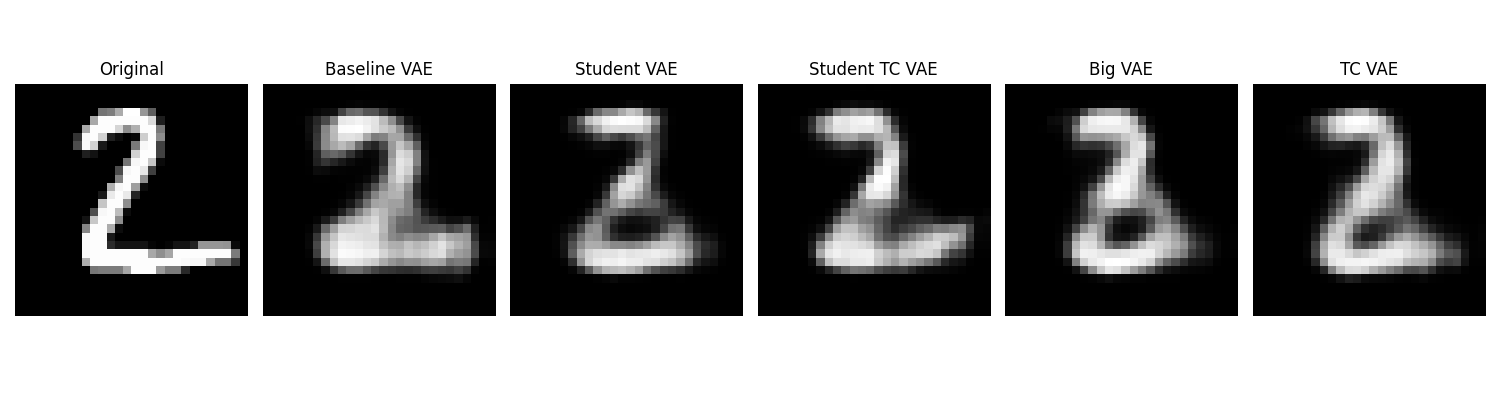
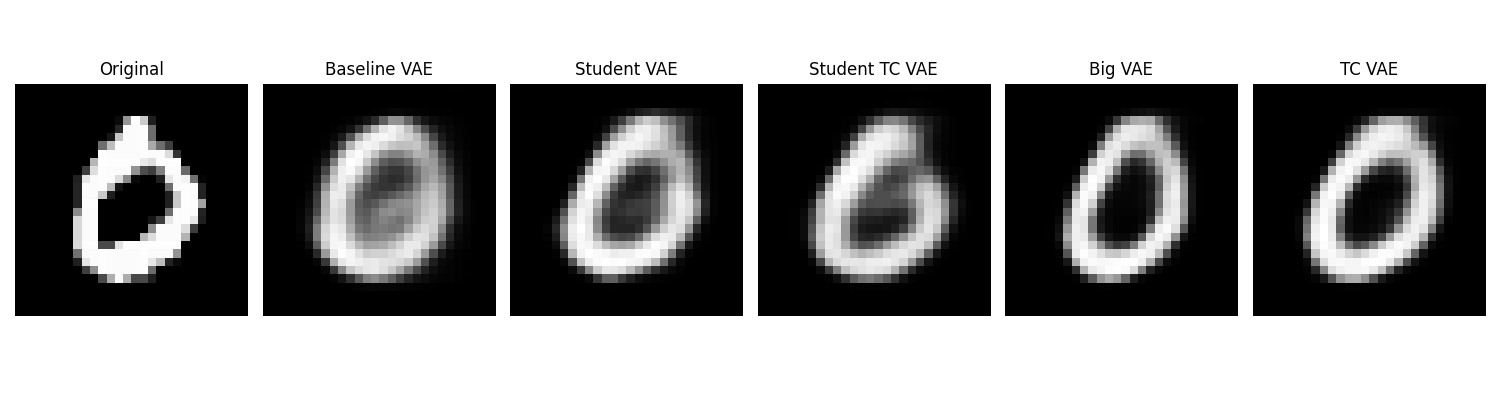
evaluation results mostly complete

diff --git a/evaluation.py b/evaluation.py
@@ -32,28 +32,6 @@ def load_data():
     return digits
 
 
-def extract_latent_vectors(vae_small, vae_big, data):
-    #Extract latent vectors from the small and big VAEs.
-    z_mean_small, _, _ = vae_small.encoder.predict(data)
-    z_mean_big, _, _ = vae_big.encoder.predict(data)
-    return z_mean_small, z_mean_big
-
-
-def visualize_latent_space(z_mean_small, z_mean_big):
-    #Apply PCA and visualize latent spaces.
-    pca_small = PCA(n_components=2).fit_transform(z_mean_small)
-    pca_big = PCA(n_components=2).fit_transform(z_mean_big)
-
-    plt.figure(figsize=(12, 6))
-    plt.subplot(1, 2, 1)
-    plt.scatter(pca_small[:, 0], pca_small[:, 1], alpha=0.5)
-    plt.title("Small VAE Latent Space")
-    plt.subplot(1, 2, 2)
-    plt.scatter(pca_big[:, 0], pca_big[:, 1], alpha=0.5)
-    plt.title("Big VAE Latent Space")
-    plt.show()
-
-
 def discretize_data(data, n_bins=10):
     #Discretize continuous data into bins for MI calculation.
     discretizer = KBinsDiscretizer(n_bins=n_bins, encode='ordinal', strategy='uniform')
@@ -150,3 +128,117 @@ def visualize_reconstruction(models, model_names, test_sample, save_path="figure
     plt.tight_layout()
     plt.savefig(save_path)
     plt.show()
+
+def interpolate_and_plot_latent_space(models, model_names, img1, img2, num_steps=10, save_path="figures/interpolations.png"):
+    #Linear interpolation between two images in latent space
+    plt.figure(figsize=(15, len(models) * 2))
+
+    for row_idx, (model, model_name) in enumerate(zip(models, model_names)):
+        #Encode images into latent space
+        z_mean1, _, _ = model.encoder.predict(img1)
+        z_mean2, _, _ = model.encoder.predict(img2)
+
+        #Linearly interpolate
+        interpolated_images = []
+        for alpha in np.linspace(0, 1, num_steps):
+            z_interp = (1 - alpha) * z_mean1 + alpha * z_mean2
+            reconstructed = model.decoder.predict(z_interp)
+            interpolated_images.append(reconstructed[0, :, :, 0])
+
+        #Add original images to the first and last step
+        interpolated_images.insert(0, img1[0, :, :, 0])
+        interpolated_images.append(img2[0, :, :, 0])
+
+        #Plot all images
+        for col_idx, img in enumerate(interpolated_images):
+            plt.subplot(len(models), num_steps + 2, row_idx * (num_steps + 2) + col_idx + 1)
+            plt.imshow(img, cmap="gray")
+            plt.axis("off")
+            if row_idx == 0:
+                if col_idx == 0:
+                    plt.title("Original 1")
+                elif col_idx == len(interpolated_images) - 1:
+                    plt.title("Original 2")
+                else:
+                    plt.title(f"Step {col_idx}")
+        plt.suptitle(f"Latent Space Interpolation ({model_name})", y=1.02, fontsize=16)
+
+    plt.tight_layout()
+    plt.savefig(save_path)
+    plt.show()
+
+
+def plot_tangent_vectors_latent_axes(jacobian, image_shape, model_name, title_suffix=""):
+    #Helper function for visualizing latent space tangent vectors
+    num_inputs = jacobian.shape[1]
+    ncols = 16
+    nrows = int(np.ceil(num_inputs / ncols))
+
+    fig, axes = plt.subplots(nrows, ncols, figsize=(ncols * 2, nrows * 2))
+    axes = axes.flatten()
+
+    for i in range(num_inputs):
+        tangent_vector = jacobian[:, i]
+        image = tangent_vector.reshape(image_shape)
+        #Normalize
+        image = (image - image.min()) / (image.max() - image.min() + 1e-8)
+        axes[i].imshow(image, cmap="gray")
+        axes[i].axis("off")
+        axes[i].set_title(f"Axis {i+1}", fontsize=6)
+
+    #Hide unused subplots
+    for i in range(num_inputs, len(axes)):
+        axes[i].axis("off")
+
+    plt.suptitle(f"{model_name} Latent Axes Tangent Vectors {title_suffix}", fontsize=12)
+    plt.tight_layout()
+    plt.savefig(f"figures/latent_tangent_vectors_{model_name}.png")
+
+def plot_tangent_vectors_principal_components(jacobian, image_shape, model_name, num_components=128, title_suffix=""):
+    #Helper function for visualizing principal component tangent vectors
+    U, S, V = np.linalg.svd(jacobian, full_matrices=False)
+
+    components_to_plot = min(num_components, V.shape[1])
+    ncols = 16
+    nrows = int(np.ceil(components_to_plot / ncols))
+
+    fig, axes = plt.subplots(nrows, ncols, figsize=(ncols * 2, nrows * 2))
+    axes = axes.flatten()
+
+    for i in range(components_to_plot):
+        principal_tangent = jacobian @ V[i]
+        image = principal_tangent.reshape(image_shape)
+        #Normalize
+        image = (image - image.min()) / (image.max() - image.min() + 1e-8)
+        axes[i].imshow(image, cmap="gray")
+        axes[i].axis("off")
+        axes[i].set_title(f"PC {i+1}", fontsize=6)
+
+    #Hide unused subplots
+    for i in range(components_to_plot, len(axes)):
+        axes[i].axis("off")
+
+    plt.suptitle(f"{model_name} Principal Components Tangent Vectors {title_suffix}", fontsize=12)
+    plt.tight_layout()
+    plt.savefig(f"figures/latent_tangent_vectors_{model_name}.png")
+
+
+def compute_and_plot_tangent_vectors(models, model_names, test_sample):
+    #Compute and visualize tangent vectors in latent space
+    image_shape = test_sample.shape[1:]
+    for model, model_name in zip(models, model_names):
+        #Latent vector
+        z_mean, _, _ = model.encoder.predict(test_sample)
+
+         #Compute Jacobian
+        jacobian = np.zeros((np.prod(image_shape), z_mean.shape[1]))
+
+        for i in range(z_mean.shape[1]):
+            z_input = np.zeros_like(z_mean)
+            z_input[0, i] = 1.0
+            decoded_output = model.decoder.predict(z_input)
+            jacobian[:, i] = decoded_output.flatten()
+
+        #Plot tangent vectors
+        plot_tangent_vectors_latent_axes(jacobian, image_shape, model_name)
+        plot_tangent_vectors_principal_components(jacobian, image_shape, model_name)

diff --git a/model_creation.py b/model_creation.py
@@ -16,7 +16,7 @@ replace_tc_model = False
 
 #Two student models
 replace_student_model = False
-replace_student_tc_model = True
+replace_student_tc_model = False
 
 #Encoder creation function
 def create_baseline_encoder(model_name, latent_dim = 5, input_shape=(28, 28, 1)):
@@ -105,12 +105,12 @@ with open(output_file, "w") as f:
             #Teacher VAE: More filters, more complex architecture
             encoder_tc = create_teacher_encoder()
             decoder_tc = create_decoder(num_filters=32)
-            vae_tc = TC_VAE(encoder_tc, decoder_tc, beta=2.0, beta_tc=0.0)
+            vae_tc = TC_VAE(encoder_tc, decoder_tc, beta=1.0, beta_tc=0.0)
             vae_tc.compile(optimizer=keras.optimizers.Adam(learning_rate = 0.0001))
 
             #Add BetaScheduler
             beta_tc_var = tf.Variable(0.0, trainable=False, dtype=tf.float32)
-            callbacks = [BetaScheduler(beta_tc_var, max_beta=0.5, schedule_epochs=10)]
+            callbacks = [BetaScheduler(beta_tc_var, max_beta=1.0, schedule_epochs=10)]
 
             #Train
             print("Training Teacher VAE")
@@ -150,3 +150,33 @@ with open(output_file, "w") as f:
     finally:
         # Restore original stdout
         sys.stdout = sys.__stdout__
+
+import struct
+import numpy as np
+import pandas as pd
+
+def load_labels(file_path):
+    with open(file_path, 'rb') as f:
+        # Read magic number and number of labels
+        magic, num_items = struct.unpack(">II", f.read(8))  # Big-endian, two unsigned integers
+        assert magic == 2049, f"Invalid magic number: {magic}"  # Ensure it's a label file
+        # Read the labels
+        labels = np.frombuffer(f.read(), dtype=np.uint8)
+    return labels
+
+# File paths
+labels_file_path = "dataset/t10k-labels.idx1-ubyte"
+morpho_csv_path = "dataset/t10k-morpho.csv"
+
+# Load labels and morphometric data
+labels = load_labels(labels_file_path)
+morpho_df = pd.read_csv(morpho_csv_path)
+
+# Combine into a single DataFrame
+morpho_df["label"] = labels
+
+# Save to Excel
+output_path = "combined_morphometrics.csv"
+morpho_df.to_csv(output_path, index=False)
+
+print(f"Combined data saved to {output_path}")

diff --git a/main.py b/main.py
@@ -3,11 +3,11 @@ import sys
 from evaluation import (
     load_models,
     load_data,
-    extract_latent_vectors,
-    visualize_latent_space,
     calculate_and_plot_mig,
     reconstruction_accuracy,
     visualize_reconstruction,
+    interpolate_and_plot_latent_space,
+    compute_and_plot_tangent_vectors,
 )
 
 #File paths
@@ -36,15 +36,30 @@ with open(output_file, "w") as f:
     sys.stdout = f
     try:
         #Calculate and visualize MIG for all models
-        calculate_and_plot_mig(models, model_names, metrics_path, digits, factors_cols)
+        #calculate_and_plot_mig(models, model_names, metrics_path, digits, factors_cols)
 
         #Calculate reconstruction accuracy for all models
-        reconstruction_accuracy(models, model_names, digits)
+        #reconstruction_accuracy(models, model_names, digits)
 
-        #Visualize reconstructions for sample 1
-        test_index = 1
+        #Visualize reconstructions for sample 0
+        test_index = 3
         test_sample = digits[test_index:test_index + 1]
-        visualize_reconstruction(models, model_names, test_sample, save_path="figures/reconstructions.png")
+        #visualize_reconstruction(models, model_names, test_sample, save_path="figures/reconstructions.png")
+        
+
+        #Find two samples for interpolation by perturbing the slant
+        negative_slant_sample_index = 1521
+        positive_slant_sample_index = 705
+
+        negative_slant_sample = digits[negative_slant_sample_index:negative_slant_sample_index + 1]
+        positive_slant_sample = digits[positive_slant_sample_index:positive_slant_sample_index + 1]
+
+        #Interpolate in latent space
+        #interpolate_and_plot_latent_space(models, model_names, negative_slant_sample, positive_slant_sample, num_steps=10, save_path="figures/interpolation.png")
+
+        #Compute and plot tangent vectors
+        #compute_and_plot_tangent_vectors(models, model_names, test_sample)
+
 
     finally:
         # Restore original stdout
